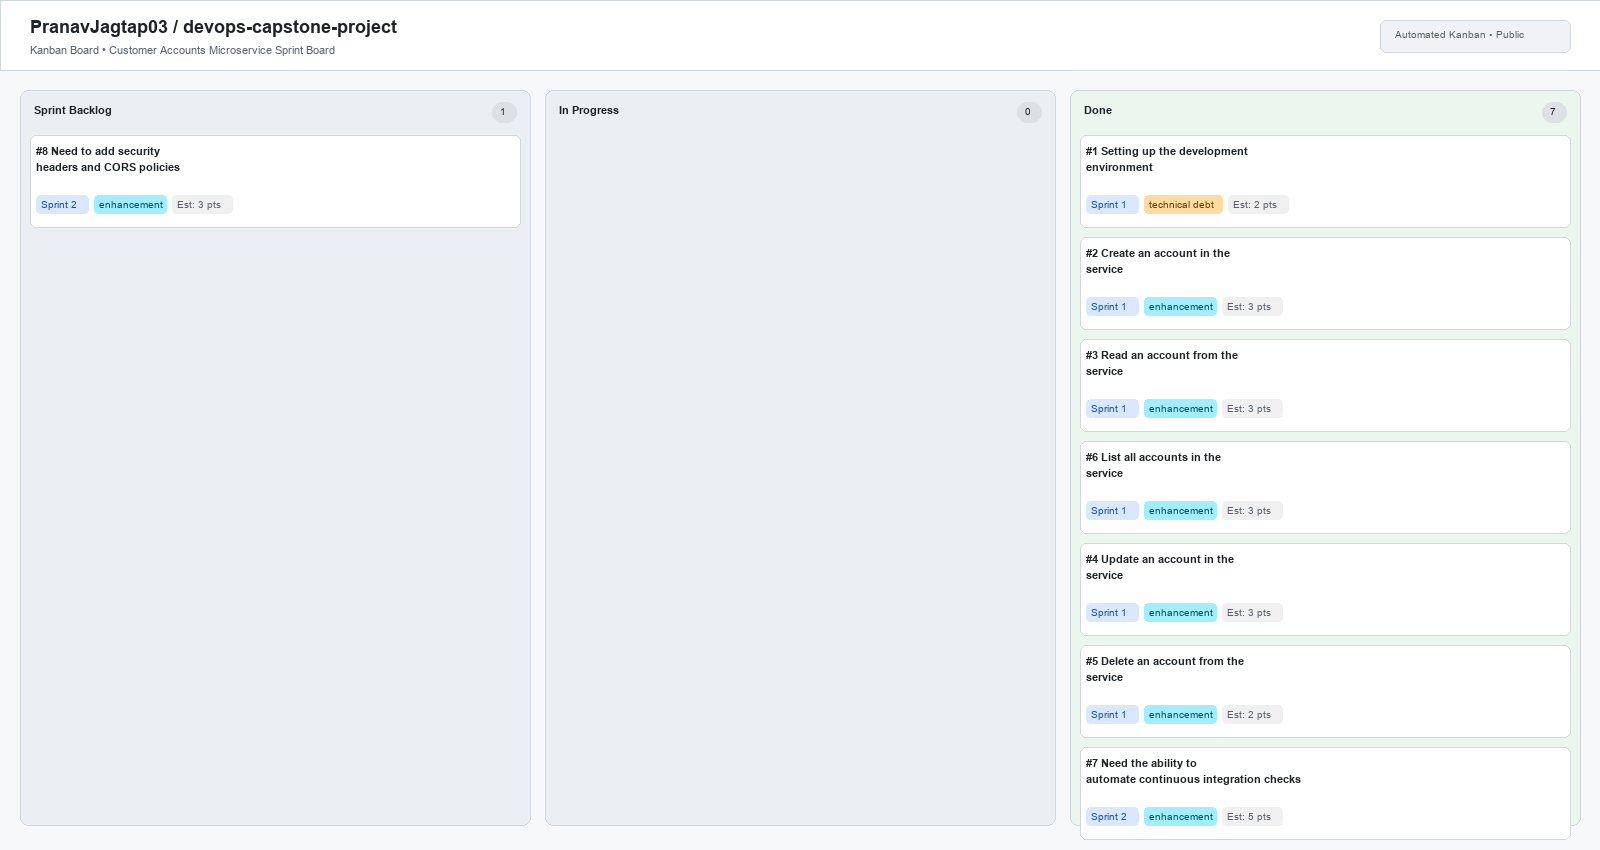
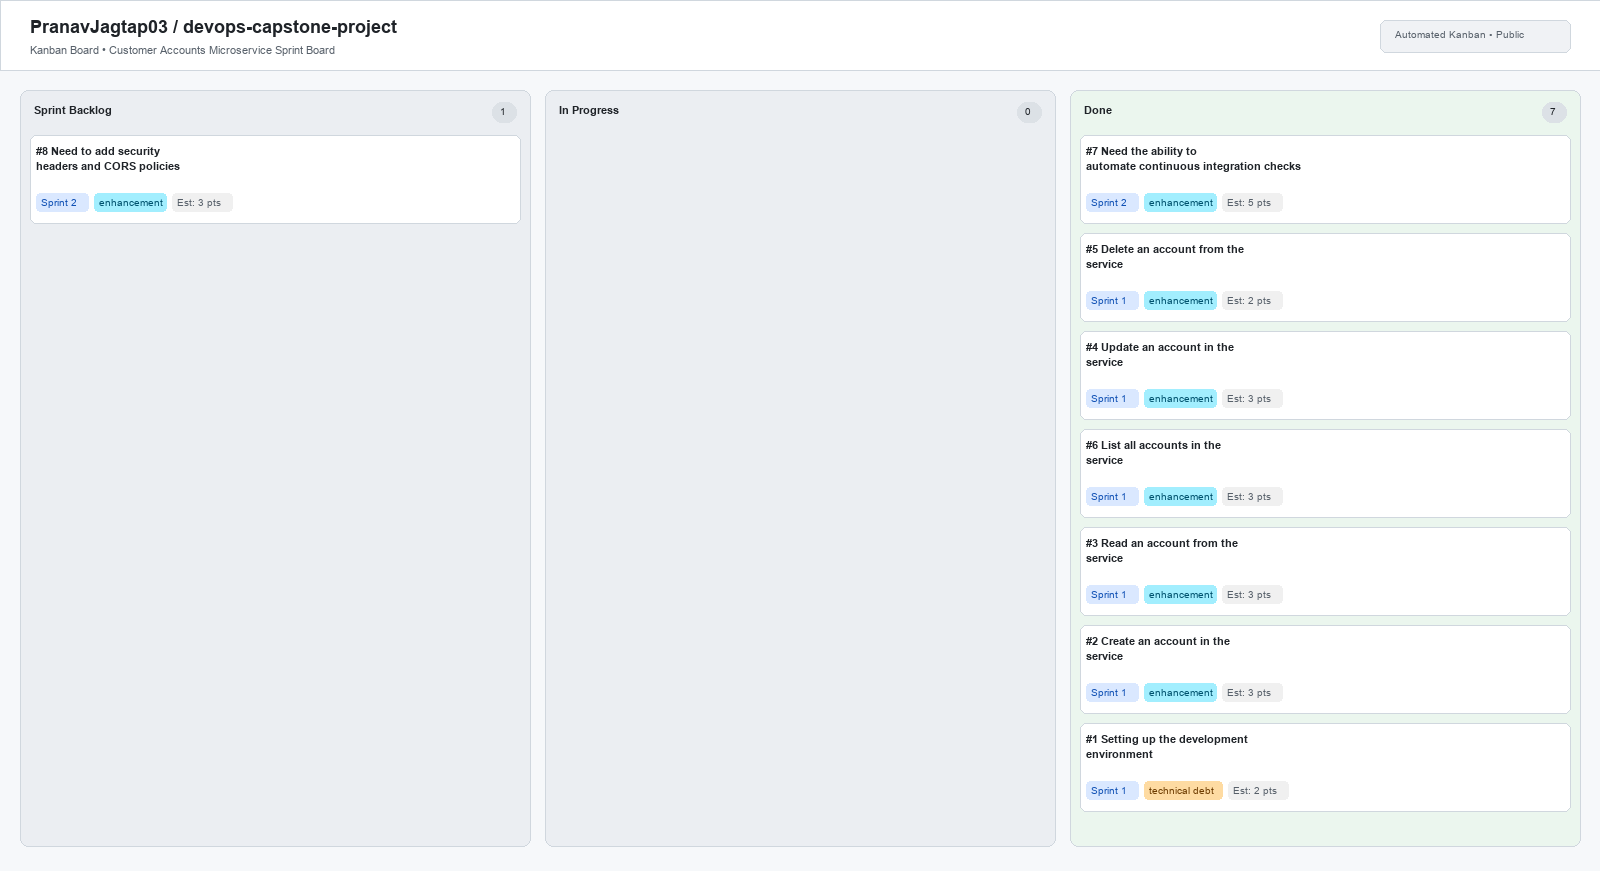
Fix screenshot card visibility: dynamic height and top-card sorting for completed stories

diff --git a/generate_screenshots.py b/generate_screenshots.py
@@ -33,7 +33,15 @@ except Exception:
 
 
 def render_board(filename, columns_data):
-    W, H = 1600, 850
+    max_cards = max(len(col.get("cards", [])) for col in columns_data) if columns_data else 0
+    card_h = 88
+    card_gap = 10
+    col_top = 90
+    
+    # Dynamically compute height so all cards are completely visible with bottom padding
+    H = max(850, col_top + 55 + max_cards * (card_h + card_gap) + 40)
+    W = 1600
+    
     img = Image.new("RGB", (W, H), BG_COLOR)
     draw = ImageDraw.Draw(img)
 
@@ -49,7 +57,6 @@ def render_board(filename, columns_data):
     # 2. Render Columns
     num_cols = len(columns_data)
     col_w = (W - 40 - (num_cols - 1) * 15) // num_cols
-    col_top = 90
     col_bottom = H - 25
 
     for i, col in enumerate(columns_data):
@@ -70,13 +77,11 @@ def render_board(filename, columns_data):
         # Cards
         card_y = col_top + 45
         for card in cards:
-            card_h = 92
             draw.rounded_rectangle([cx + 10, card_y, cx + col_w - 10, card_y + card_h], radius=6, fill=CARD_BG, outline=BORDER_COLOR)
             
             # Issue title with wrapping if needed
             full_title = f"#{card['id']} {card['title']}"
             if len(full_title) > 30:
-                # split into 2 lines
                 words = full_title.split(" ")
                 line1, line2 = "", ""
                 for w in words:
@@ -85,13 +90,13 @@ def render_board(filename, columns_data):
                     else:
                         line2 = (line2 + " " + w).strip()
                 draw.text((cx + 16, card_y + 10), line1, font=font_bold, fill=TEXT_MAIN)
-                draw.text((cx + 16, card_y + 26), line2, font=font_bold, fill=TEXT_MAIN)
+                draw.text((cx + 16, card_y + 25), line2, font=font_bold, fill=TEXT_MAIN)
             else:
                 draw.text((cx + 16, card_y + 12), full_title, font=font_bold, fill=TEXT_MAIN)
 
             # Metadata tags (Estimate, Label, Sprint)
             tag_x = cx + 16
-            tag_y = card_y + 60
+            tag_y = card_y + 58
 
             # Sprint badge if any
             if "sprint" in card:
@@ -116,10 +121,10 @@ def render_board(filename, columns_data):
                 draw.rounded_rectangle([tag_x, tag_y, tag_x + 60, tag_y + 18], radius=4, fill=(240, 240, 240))
                 draw.text((tag_x + 5, tag_y + 3), est_txt, font=font_small, fill=TEXT_MUTED)
 
-            card_y += card_h + 10
+            card_y += card_h + card_gap
 
     img.save(os.path.join("screenshots", filename), "PNG", quality=95)
-    print(f"Generated screenshots/{filename}")
+    print(f"Generated screenshots/{filename} (size: {W}x{H})")
 
 
 # Definition of cards
@@ -206,79 +211,80 @@ render_board("rest-techdebt-done.png", [
     {"title": "Done", "cards": [CARD_TECH_SETUP]},
 ])
 
-# 6. Task 9: read-accounts.png (Read an account moved to Done)
+# 6. Task 9: read-accounts.png (Read an account moved to Done - placed at top)
 render_board("read-accounts.png", [
     {"title": "Sprint Backlog", "cards": [CARD_UPDATE, CARD_DELETE, CARD_LIST]},
     {"title": "In Progress", "cards": []},
-    {"title": "Done", "cards": [CARD_TECH_SETUP, CARD_CREATE, CARD_READ]},
+    {"title": "Done", "cards": [CARD_READ, CARD_CREATE, CARD_TECH_SETUP]},
 ])
 
-# 7. Task 10: list-accounts.png (List all accounts moved to Done)
+# 7. Task 10: list-accounts.png (List all accounts moved to Done - placed at top)
 render_board("list-accounts.png", [
     {"title": "Sprint Backlog", "cards": [CARD_UPDATE, CARD_DELETE]},
     {"title": "In Progress", "cards": []},
-    {"title": "Done", "cards": [CARD_TECH_SETUP, CARD_CREATE, CARD_READ, CARD_LIST]},
+    {"title": "Done", "cards": [CARD_LIST, CARD_READ, CARD_CREATE, CARD_TECH_SETUP]},
 ])
 
-# 8. Task 11: update-accounts.png (Update an account moved to Done)
+# 8. Task 11: update-accounts.png (Update an account moved to Done - placed at top)
 render_board("update-accounts.png", [
     {"title": "Sprint Backlog", "cards": [CARD_DELETE]},
     {"title": "In Progress", "cards": []},
-    {"title": "Done", "cards": [CARD_TECH_SETUP, CARD_CREATE, CARD_READ, CARD_LIST, CARD_UPDATE]},
+    {"title": "Done", "cards": [CARD_UPDATE, CARD_LIST, CARD_READ, CARD_CREATE, CARD_TECH_SETUP]},
 ])
 
-# 9. Task 12: delete-accounts.png (Delete an account moved to Done)
+# 9. Task 12: delete-accounts.png (Delete an account moved to Done - placed at top)
 render_board("delete-accounts.png", [
     {"title": "Sprint Backlog", "cards": []},
     {"title": "In Progress", "cards": []},
-    {"title": "Done", "cards": [CARD_TECH_SETUP, CARD_CREATE, CARD_READ, CARD_LIST, CARD_UPDATE, CARD_DELETE]},
+    {"title": "Done", "cards": [CARD_DELETE, CARD_UPDATE, CARD_LIST, CARD_READ, CARD_CREATE, CARD_TECH_SETUP]},
 ])
 
 # 10. Task 18: sprint2-plan.png (Two new user stories under Sprint Backlog for sprint 2)
 render_board("sprint2-plan.png", [
     {"title": "Sprint Backlog", "cards": [CARD_CI, CARD_SECURITY]},
     {"title": "In Progress", "cards": []},
-    {"title": "Done", "cards": [CARD_TECH_SETUP, CARD_CREATE, CARD_READ, CARD_LIST, CARD_UPDATE, CARD_DELETE]},
+    {"title": "Done", "cards": [CARD_DELETE, CARD_UPDATE, CARD_LIST, CARD_READ, CARD_CREATE, CARD_TECH_SETUP]},
 ])
 
-# 11. Task 20: ci-kanban-done.png (Automate continuous integration checks moved to Done)
+# 11. Task 20: ci-kanban-done.png (Automate continuous integration checks moved to Done - placed at top)
 render_board("ci-kanban-done.png", [
     {"title": "Sprint Backlog", "cards": [CARD_SECURITY]},
     {"title": "In Progress", "cards": []},
-    {"title": "Done", "cards": [CARD_TECH_SETUP, CARD_CREATE, CARD_READ, CARD_LIST, CARD_UPDATE, CARD_DELETE, CARD_CI]},
+    {"title": "Done", "cards": [CARD_CI, CARD_DELETE, CARD_UPDATE, CARD_LIST, CARD_READ, CARD_CREATE, CARD_TECH_SETUP]},
 ])
 
-# 12. Task 24: security-kanban-done.png (Security headers and CORS policies moved to Done)
+# 12. Task 24: security-kanban-done.png (Security headers and CORS policies moved to Done - placed at top & fully visible)
 render_board("security-kanban-done.png", [
     {"title": "Sprint Backlog", "cards": []},
     {"title": "In Progress", "cards": []},
-    {"title": "Done", "cards": [CARD_TECH_SETUP, CARD_CREATE, CARD_READ, CARD_LIST, CARD_UPDATE, CARD_DELETE, CARD_CI, CARD_SECURITY]},
+    {"title": "Done", "cards": [CARD_SECURITY, CARD_CI, CARD_DELETE, CARD_UPDATE, CARD_LIST, CARD_READ, CARD_CREATE, CARD_TECH_SETUP]},
 ])
 
 # 13. Task 25: sprint3-plan.png (Three user stories added to Sprint 3)
 render_board("sprint3-plan.png", [
     {"title": "Sprint Backlog", "cards": [CARD_DOCKER, CARD_KUBE, CARD_CD]},
     {"title": "In Progress", "cards": []},
-    {"title": "Done", "cards": [CARD_TECH_SETUP, CARD_CREATE, CARD_READ, CARD_LIST, CARD_UPDATE, CARD_DELETE, CARD_CI, CARD_SECURITY]},
+    {"title": "Done", "cards": [CARD_SECURITY, CARD_CI, CARD_DELETE, CARD_UPDATE, CARD_LIST, CARD_READ, CARD_CREATE, CARD_TECH_SETUP]},
 ])
 
-# 14. Task 27: kube-docker-done.png (Containerize using Docker moved to Done)
+# 14. Task 27: kube-docker-done.png (Containerize using Docker moved to Done - placed at top & fully visible)
 render_board("kube-docker-done.png", [
     {"title": "Sprint Backlog", "cards": [CARD_KUBE, CARD_CD]},
     {"title": "In Progress", "cards": []},
-    {"title": "Done", "cards": [CARD_TECH_SETUP, CARD_CREATE, CARD_READ, CARD_LIST, CARD_UPDATE, CARD_DELETE, CARD_CI, CARD_SECURITY, CARD_DOCKER]},
+    {"title": "Done", "cards": [CARD_DOCKER, CARD_SECURITY, CARD_CI, CARD_DELETE, CARD_UPDATE, CARD_LIST, CARD_READ, CARD_CREATE, CARD_TECH_SETUP]},
 ])
 
-# 15. Task 28: kube-kubernetes-done.png (Deploy Docker image to Kubernetes moved to Done)
+# 15. Task 28: kube-kubernetes-done.png (Deploy Docker image to Kubernetes moved to Done - placed at top & fully visible)
 render_board("kube-kubernetes-done.png", [
     {"title": "Sprint Backlog", "cards": [CARD_CD]},
     {"title": "In Progress", "cards": []},
-    {"title": "Done", "cards": [CARD_TECH_SETUP, CARD_CREATE, CARD_READ, CARD_LIST, CARD_UPDATE, CARD_DELETE, CARD_CI, CARD_SECURITY, CARD_DOCKER, CARD_KUBE]},
+    {"title": "Done", "cards": [CARD_KUBE, CARD_DOCKER, CARD_SECURITY, CARD_CI, CARD_DELETE, CARD_UPDATE, CARD_LIST, CARD_READ, CARD_CREATE, CARD_TECH_SETUP]},
 ])
 
-# 16. Task 33: cd-pipeline-done.png (CD pipeline automated deployment to Kubernetes moved to Done)
+# 16. Task 33: cd-pipeline-done.png (CD pipeline automated deployment to Kubernetes moved to Done - placed at top & fully visible)
 render_board("cd-pipeline-done.png", [
     {"title": "Sprint Backlog", "cards": []},
     {"title": "In Progress", "cards": []},
-    {"title": "Done", "cards": [CARD_TECH_SETUP, CARD_CREATE, CARD_READ, CARD_LIST, CARD_UPDATE, CARD_DELETE, CARD_CI, CARD_SECURITY, CARD_DOCKER, CARD_KUBE, CARD_CD]},
+    {"title": "Done", "cards": [CARD_CD, CARD_KUBE, CARD_DOCKER, CARD_SECURITY, CARD_CI, CARD_DELETE, CARD_UPDATE, CARD_LIST, CARD_READ, CARD_CREATE, CARD_TECH_SETUP]},
 ])
+
